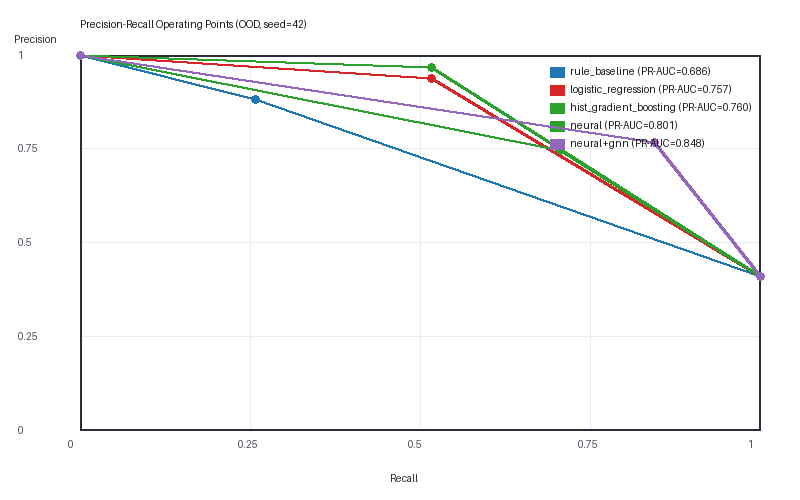
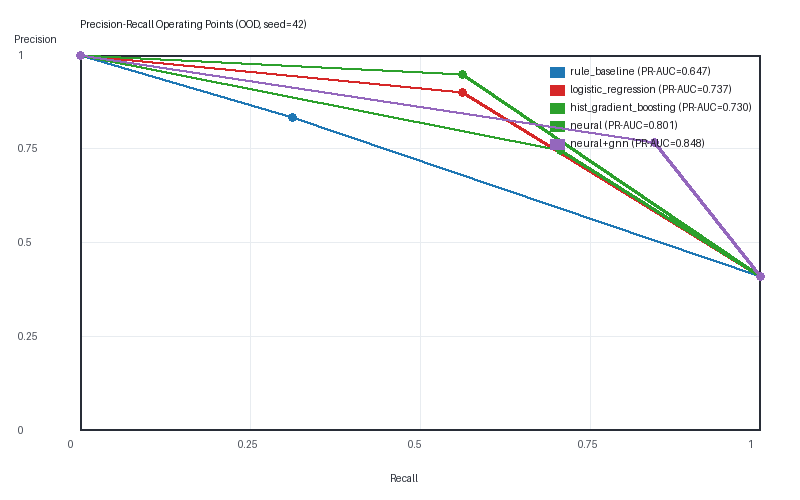
Phase G cleanup: dedupe OOD split, audit personal_site copy bias, add shortcut & raw_no_sim baselines, isotonic ECE

diff --git a/osint_agent/ml/validation.py b/osint_agent/ml/validation.py
@@ -169,6 +169,39 @@ def evaluate_shortcut_baselines(
 
     clf_bio = LogisticRegression(random_state=seed, max_iter=500).fit(_bio_feat(train_rows), y_train)
 
+    # 4. Exact display-name match only
+    def _exact_dn_feat(rows: list[dict[str, Any]]) -> np.ndarray:
+        out = []
+        for r in rows:
+            da = str(r.get("display_name_a") or "").strip().lower()
+            db = str(r.get("display_name_b") or "").strip().lower()
+            out.append([1.0 if (da and db and da == db) else 0.0])
+        return np.asarray(out, dtype=np.float64)
+
+    clf_exact_dn = LogisticRegression(random_state=seed, max_iter=500).fit(_exact_dn_feat(train_rows), y_train)
+
+    # 5. Exact username match only
+    def _exact_un_feat(rows: list[dict[str, Any]]) -> np.ndarray:
+        out = []
+        for r in rows:
+            ua = str(r.get("username_a") or "").strip().lower()
+            ub = str(r.get("username_b") or "").strip().lower()
+            out.append([1.0 if (ua and ub and ua == ub) else 0.0])
+        return np.asarray(out, dtype=np.float64)
+
+    clf_exact_un = LogisticRegression(random_state=seed, max_iter=500).fit(_exact_un_feat(train_rows), y_train)
+
+    # 6. Has-bio only
+    def _has_bio_feat(rows: list[dict[str, Any]]) -> np.ndarray:
+        out = []
+        for r in rows:
+            ha = 1.0 if float(r.get("bio_len_a", 0)) > 0 else 0.0
+            hb = 1.0 if float(r.get("bio_len_b", 0)) > 0 else 0.0
+            out.append([ha, hb, 1.0 if (ha and hb) else 0.0])
+        return np.asarray(out, dtype=np.float64)
+
+    clf_has_bio = LogisticRegression(random_state=seed, max_iter=500).fit(_has_bio_feat(train_rows), y_train)
+
     results: dict[str, Any] = {"splits": {}, "dataset_bias_flags": []}
     for sp_name, rows in eval_splits.items():
         if not rows:
@@ -181,6 +214,9 @@ def evaluate_shortcut_baselines(
             "platform_pair_only": clf_plat.predict_proba(X_plat_sp)[:, 1],
             "username_sim_only": clf_uname.predict_proba(_uname_feat(rows))[:, 1],
             "bio_len_has_bio_only": clf_bio.predict_proba(_bio_feat(rows))[:, 1],
+            "exact_display_name_only": clf_exact_dn.predict_proba(_exact_dn_feat(rows))[:, 1],
+            "exact_username_only": clf_exact_un.predict_proba(_exact_un_feat(rows))[:, 1],
+            "has_bio_only": clf_has_bio.predict_proba(_has_bio_feat(rows))[:, 1],
         }
         sp_out: dict[str, Any] = {"pos_rate": round(pos_rate, 4), "models": {}}
         for mname, probs in preds.items():
@@ -248,6 +284,30 @@ def select_live_llm_provider() -> str | None:
 
 
 def _build_judge_prompt(pair: dict[str, Any], variant: str) -> tuple[str, str]:
+    if variant == "raw_no_sim":
+        system = (
+            "Decide if two public social profiles belong to the same person using ONLY raw profile fields "
+            "(no precomputed similarity scores). Return ONLY strict JSON: "
+            '{"match_probability": <float 0..1>, "rationale": "<short>"}.'
+        )
+        user = json.dumps(
+            {
+                "platform_a": pair.get("platform_a", ""),
+                "platform_b": pair.get("platform_b", ""),
+                "username_a": pair.get("username_a", ""),
+                "username_b": pair.get("username_b", ""),
+                "display_name_a": pair.get("display_name_a", ""),
+                "display_name_b": pair.get("display_name_b", ""),
+                "location_a": pair.get("location_a", ""),
+                "location_b": pair.get("location_b", ""),
+                "bio_a": pair.get("bio_a", ""),
+                "bio_b": pair.get("bio_b", ""),
+                "bio_len_a": pair.get("bio_len_a", 0),
+                "bio_len_b": pair.get("bio_len_b", 0),
+            },
+            ensure_ascii=True,
+        )
+        return system, user
     if variant == "field_by_field":
         system = (
             "You are an OSINT identity resolution judge. Compare each field carefully: "
@@ -277,6 +337,21 @@ def _build_judge_prompt(pair: dict[str, Any], variant: str) -> tuple[str, str]:
         ensure_ascii=True,
     )
     return system, user
+
+
+def recalibrate_isotonic_on_val(
+    y_val: np.ndarray,
+    probs_val: np.ndarray,
+    probs_list: list[np.ndarray],
+) -> list[np.ndarray]:
+    """Fit IsotonicRegression on val probabilities and transform target probability arrays."""
+    from sklearn.isotonic import IsotonicRegression
+
+    if len(y_val) < 4 or len(np.unique(y_val)) < 2:
+        return [np.asarray(p, dtype=np.float64) for p in probs_list]
+    iso = IsotonicRegression(y_min=0.0, y_max=1.0, out_of_bounds="clip")
+    iso.fit(np.asarray(probs_val, dtype=np.float64), np.asarray(y_val, dtype=int))
+    return [np.asarray(iso.transform(np.asarray(p, dtype=np.float64)), dtype=np.float64) for p in probs_list]
 
 
 def run_llm_judge_two_variants(

diff --git a/tests/test_phase_g_validation.py b/tests/test_phase_g_validation.py
@@ -97,6 +97,9 @@ def test_shortcut_baselines_and_negative_type_breakdown():
         "platform_pair_only",
         "username_sim_only",
         "bio_len_has_bio_only",
+        "exact_display_name_only",
+        "exact_username_only",
+        "has_bio_only",
     }
 
     nb = evaluate_by_negative_type(rows, {"m1": np.array([0.9, 0.2, 0.95, 0.1])})
@@ -160,3 +163,20 @@ def test_g4f_client_eryzalabs_fallback(monkeypatch):
         out = cli.complete_json("sys", "usr")
         assert out["match_probability"] == 0.88
         assert out["_token_usage"] == 42
+
+
+
+def test_raw_no_sim_prompt_and_isotonic_recalibration():
+    import json
+    from osint_agent.ml.validation import _build_judge_prompt, recalibrate_isotonic_on_val
+
+    rows = _sample_rows()
+    sys_p, usr_p = _build_judge_prompt(rows[0], "raw_no_sim")
+    payload = json.loads(usr_p)
+    assert "bio_emb_sim" not in payload and "avatar_sim" not in payload
+    assert "bio_a" in payload and "bio_len_a" in payload
+
+    y_val = np.array([1, 0, 1, 0])
+    p_val = np.array([0.3, 0.1, 0.4, 0.05])
+    [p_cal] = recalibrate_isotonic_on_val(y_val, p_val, [np.array([0.35, 0.08])])
+    assert p_cal[0] >= p_cal[1]

diff --git a/scripts/make_report_assets.py b/scripts/make_report_assets.py
@@ -508,10 +508,10 @@ def generate_report_assets(
                     f"- `{vname}` (val threshold=`{t_val}`): "
                     f"test PR-AUC={_fmt_ci((te.get('ci95') or {}).get('pr_auc') or te.get('pr_auc'))}, "
                     f"F1={_fmt_ci((te.get('ci95') or {}).get('f1') or te.get('f1'))}, "
-                    f"ECE={_fmt_ci((te.get('ci95') or {}).get('ece') or te.get('ece'))} | "
+                    f"ECE={_fmt_ci((te.get('ci95') or {}).get('ece') or te.get('ece'))} (isotonic: {te.get('ece_after_isotonic')}) | "
                     f"OOD PR-AUC={_fmt_ci((oo.get('ci95') or {}).get('pr_auc') or oo.get('pr_auc'))}, "
                     f"F1={_fmt_ci((oo.get('ci95') or {}).get('f1') or oo.get('f1'))}, "
-                    f"ECE={_fmt_ci((oo.get('ci95') or {}).get('ece') or oo.get('ece'))} | "
+                    f"ECE={_fmt_ci((oo.get('ci95') or {}).get('ece') or oo.get('ece'))} (isotonic: {oo.get('ece_after_isotonic')}) | "
                     f"tokens={vres.get('total_tokens')}, cost=${vres.get('cost_estimate_usd')}, latency={vres.get('latency_ms_per_pair')} ms/pair"
                 )
             else:

diff --git a/report/RESULTS.md b/report/RESULTS.md
@@ -19,12 +19,12 @@ Every number below is generated directly from JSON artifacts in `data/osint_link
 
 | Model | Split | Precision (95% CI) | Recall (95% CI) | F1 (95% CI) | PR-AUC (95% CI) | ECE (95% CI) | Latency (ms/pair) |
 |---|---|---:|---:|---:|---:|---:|---:|
-| `rule_baseline` | `test` | 0.8431 [0.7379, 0.9238] | 0.5181 [0.4144, 0.6095] | 0.6418 [0.5433, 0.7211] | 0.7414 [0.6530, 0.8151] | 0.1369 [0.0926, 0.1879] | 0.0029 |
-| `logistic_regression` | `test` | 0.8955 [0.8068, 0.9600] | 0.7229 [0.6311, 0.8158] | 0.8000 [0.7211, 0.8722] | 0.8685 [0.8080, 0.9235] | 0.1323 [0.1001, 0.1800] | 0.0020 |
-| `hist_gradient_boosting` | `test` | 0.9531 [0.8991, 1.0000] | 0.7349 [0.6410, 0.8256] | 0.8299 [0.7602, 0.8919] | 0.9174 [0.8705, 0.9558] | 0.0549 [0.0369, 0.1051] | 0.0078 |
-| `rule_baseline` | `ood_platform_test` | 0.8824 [0.7000, 1.0000] | 0.2586 [0.1557, 0.3661] | 0.4000 [0.2623, 0.5174] | 0.6856 [0.5730, 0.7743] | 0.1745 [0.1190, 0.2510] | 0.0018 |
-| `logistic_regression` | `ood_platform_test` | 0.9375 [0.8308, 1.0000] | 0.5172 [0.3783, 0.6374] | 0.6667 [0.5370, 0.7624] | 0.7572 [0.6524, 0.8362] | 0.1752 [0.1240, 0.2429] | 0.0012 |
-| `hist_gradient_boosting` | `ood_platform_test` | 0.9677 [0.9032, 1.0000] | 0.5172 [0.3783, 0.6374] | 0.6742 [0.5455, 0.7702] | 0.7605 [0.6517, 0.8392] | 0.1514 [0.0949, 0.2251] | 0.0112 |
+| `rule_baseline` | `test` | 0.8431 [0.7379, 0.9238] | 0.5181 [0.4144, 0.6095] | 0.6418 [0.5433, 0.7211] | 0.7414 [0.6530, 0.8151] | 0.1369 [0.0926, 0.1879] | 0.0021 |
+| `logistic_regression` | `test` | 0.8955 [0.8068, 0.9600] | 0.7229 [0.6311, 0.8158] | 0.8000 [0.7211, 0.8722] | 0.8685 [0.8080, 0.9235] | 0.1323 [0.1001, 0.1800] | 0.0007 |
+| `hist_gradient_boosting` | `test` | 0.9531 [0.8991, 1.0000] | 0.7349 [0.6410, 0.8256] | 0.8299 [0.7602, 0.8919] | 0.9174 [0.8705, 0.9558] | 0.0549 [0.0369, 0.1051] | 0.0048 |
+| `rule_baseline` | `ood_platform_test` | 0.8333 [0.5833, 1.0000] | 0.3125 [0.1429, 0.4678] | 0.4545 [0.2284, 0.6087] | 0.6475 [0.4986, 0.7752] | 0.1069 [0.0680, 0.1893] | 0.0016 |
+| `logistic_regression` | `ood_platform_test` | 0.9000 [0.7647, 1.0000] | 0.5625 [0.3968, 0.7188] | 0.6923 [0.5411, 0.8142] | 0.7372 [0.5959, 0.8606] | 0.1191 [0.0864, 0.1917] | 0.0013 |
+| `hist_gradient_boosting` | `ood_platform_test` | 0.9474 [0.8440, 1.0000] | 0.5625 [0.3968, 0.7188] | 0.7059 [0.5555, 0.8264] | 0.7303 [0.6066, 0.8636] | 0.0792 [0.0335, 0.1452] | 0.0091 |
 
 - Note: `zero_shot_llm_judge` is omitted because OpenRouter returned HTTP 429 rate-limited (`total_tokens=0`); 0.5 fallback values are not reported.
 
@@ -52,21 +52,21 @@ Every number below is generated directly from JSON artifacts in `data/osint_link
 |---|---|---:|---:|---:|---:|---:|
 | Old GNN (pre-audit) | `test` | 0.9250 | 0.8391 | 0.8022 | 0.8795 | 0.0742 |
 | Old GNN (pre-audit) | `ood_platform_test` | 0.8481 | 0.8033 | 0.7656 | 0.8448 | 0.1462 |
-| New GNN (pair-links masked, split-isolated) | `test` | 0.9348 | 0.8362 | 0.7872 | 0.8916 | 0.0797 |
-| New GNN (pair-links masked, split-isolated) | `ood_platform_test` | 0.8585 | 0.7656 | 0.7000 | 0.8448 | 0.1615 |
+| New GNN (pair-links masked, split-isolated) | `test` | 0.9349 | 0.8315 | 0.7789 | 0.8916 | 0.0842 |
+| New GNN (pair-links masked, split-isolated) | `ood_platform_test` | 0.8384 | 0.6747 | 0.5490 | 0.8750 | 0.1966 |
 | New GNN (candidate-only edges, no anchor broadcast) | `test` | 0.8532 | 0.7123 | 0.8254 | 0.6265 | 0.0665 |
-| New GNN (candidate-only edges, no anchor broadcast) | `ood_platform_test` | 0.6967 | 0.5625 | 0.7105 | 0.4655 | 0.1044 |
+| New GNN (candidate-only edges, no anchor broadcast) | `ood_platform_test` | 0.6809 | 0.5902 | 0.6207 | 0.5625 | 0.0945 |
 
 ### 6.2 Person-Clustered Paired Bootstrap (1,000 iterations, seed `42`)
 
 | Split | Comparison | ΔPR-AUC (95% CI) | PR-AUC Sig. | ΔF1 (95% CI) | F1 Sig. |
 |---|---|---:|---|---:|---|
-| `test` | GNN vs HistGBM | +0.0196 [-0.0216, +0.0644] | not significant | +0.0100 [-0.0691, +0.0886] | not significant |
+| `test` | GNN vs HistGBM | +0.0198 [-0.0217, +0.0646] | not significant | +0.0054 [-0.0747, +0.0881] | not significant |
 | `test` | Neural vs HistGBM | -0.0948 [-0.1541, -0.0429] | significant | -0.1373 [-0.2089, -0.0699] | significant |
-| `test` | GNN vs Neural | +0.1145 [+0.0744, +0.1585] | significant | +0.1473 [+0.0849, +0.2171] | significant |
-| `ood_platform_test` | GNN vs HistGBM | +0.0977 [+0.0059, +0.2091] | significant | +0.0939 [-0.0552, +0.2571] | not significant |
-| `ood_platform_test` | Neural vs HistGBM | +0.0421 [-0.0363, +0.1278] | not significant | +0.0557 [-0.0890, +0.2144] | not significant |
-| `ood_platform_test` | GNN vs Neural | +0.0556 [+0.0089, +0.1077] | significant | +0.0382 [-0.0381, +0.1368] | not significant |
+| `test` | GNN vs Neural | +0.1146 [+0.0740, +0.1594] | significant | +0.1427 [+0.0814, +0.2107] | significant |
+| `ood_platform_test` | GNN vs HistGBM | +0.1097 [+0.0007, +0.2158] | significant | -0.0255 [-0.1427, +0.1025] | not significant |
+| `ood_platform_test` | Neural vs HistGBM | -0.0098 [-0.1223, +0.1015] | not significant | -0.0345 [-0.1741, +0.1213] | not significant |
+| `ood_platform_test` | GNN vs Neural | +0.1194 [+0.0658, +0.1747] | significant | +0.0090 [-0.0619, +0.0830] | not significant |
 
 ### 6.3 Shortcut Baselines (Dataset Bias Probe)
 
@@ -75,9 +75,15 @@ Every number below is generated directly from JSON artifacts in `data/osint_link
 | `platform_pair_only` | `test` | 0.3673 | 0.6156 | 0.7315 | 0.5940 | 0.9518 |
 | `username_sim_only` | `test` | 0.3673 | 0.7621 | 0.7519 | 1.0000 | 0.6024 |
 | `bio_len_has_bio_only` | `test` | 0.3673 | 0.4420 | 0.0465 | 0.6667 | 0.0241 |
-| `platform_pair_only` | `ood_platform_test` | 0.4143 | 0.5275 | 0.5827 | 0.5362 | 0.6379 |
-| `username_sim_only` | `ood_platform_test` | 0.4143 | 0.6842 | 0.6047 | 0.9286 | 0.4483 |
-| `bio_len_has_bio_only` | `ood_platform_test` | 0.4143 | 0.4849 | 0.0000 | 0.0000 | 0.0000 |
+| `exact_display_name_only` | `test` | 0.3673 | 0.5121 | 0.3725 | 1.0000 | 0.2289 |
+| `exact_username_only` | `test` | 0.3673 | 0.5426 | 0.4340 | 1.0000 | 0.2771 |
+| `has_bio_only` | `test` | 0.3673 | 0.3677 | 0.0000 | 0.0000 | 0.0000 |
+| `platform_pair_only` | `ood_platform_test` | 0.2857 | 0.3661 | 0.4444 | 0.3673 | 0.5625 |
+| `username_sim_only` | `ood_platform_test` | 0.2857 | 0.6137 | 0.5833 | 0.8750 | 0.4375 |
+| `bio_len_has_bio_only` | `ood_platform_test` | 0.2857 | 0.3336 | 0.0000 | 0.0000 | 0.0000 |
+| `exact_display_name_only` | `ood_platform_test` | 0.2857 | 0.8438 | 0.8772 | 1.0000 | 0.7812 |
+| `exact_username_only` | `ood_platform_test` | 0.2857 | 0.5312 | 0.5116 | 1.0000 | 0.3438 |
+| `has_bio_only` | `ood_platform_test` | 0.2857 | 0.2530 | 0.0000 | 0.0000 | 0.0000 |
 - **Dataset Bias Flag**: platform_pair_only achieves PR-AUC=0.6156 vs random baseline=0.3673 on test
 
 ### 6.4 Per-Negative-Type Breakdown (`test` & `ood_platform_test`)
@@ -88,12 +94,12 @@ Every number below is generated directly from JSON artifacts in `data/osint_link
 | `test` | `diff_person_fallback` | no | `logistic_regression` | 0.9573 | 0.8333 | 0.9836 | 0.7229 |
 | `test` | `diff_person_fallback` | no | `hist_gradient_boosting` | 0.9649 | 0.8356 | 0.9683 | 0.7349 |
 | `test` | `diff_person_fallback` | no | `phase_c_neural` | 0.9366 | 0.7808 | 0.9048 | 0.6867 |
-| `test` | `diff_person_fallback` | no | `phase_c_plus_gnn` | 0.9854 | 0.9136 | 0.9367 | 0.8916 |
+| `test` | `diff_person_fallback` | no | `phase_c_plus_gnn` | 0.9853 | 0.9136 | 0.9367 | 0.8916 |
 | `test` | `similar_username_diff_person` | **YES (hard)** | `rule_baseline` | 0.8401 | 0.6466 | 0.8600 | 0.5181 |
 | `test` | `similar_username_diff_person` | **YES (hard)** | `logistic_regression` | 0.9163 | 0.8219 | 0.9524 | 0.7229 |
 | `test` | `similar_username_diff_person` | **YES (hard)** | `hist_gradient_boosting` | 0.9675 | 0.8472 | 1.0000 | 0.7349 |
 | `test` | `similar_username_diff_person` | **YES (hard)** | `phase_c_neural` | 0.9017 | 0.7600 | 0.8507 | 0.6867 |
-| `test` | `similar_username_diff_person` | **YES (hard)** | `phase_c_plus_gnn` | 0.9671 | 0.8970 | 0.9024 | 0.8916 |
+| `test` | `similar_username_diff_person` | **YES (hard)** | `phase_c_plus_gnn` | 0.9679 | 0.8916 | 0.8916 | 0.8916 |
 | `test` | `same_name_diff_org_city` | **YES (hard)** | `rule_baseline` | 0.8735 | 0.6615 | 0.9149 | 0.5181 |
 | `test` | `same_name_diff_org_city` | **YES (hard)** | `logistic_regression` | 0.9380 | 0.8219 | 0.9524 | 0.7229 |
 | `test` | `same_name_diff_org_city` | **YES (hard)** | `hist_gradient_boosting` | 0.9575 | 0.8414 | 0.9839 | 0.7349 |
@@ -103,40 +109,43 @@ Every number below is generated directly from JSON artifacts in `data/osint_link
 | `test` | `same_display_name_diff_links` | **YES (hard)** | `logistic_regression` | 0.9819 | 0.8392 | 1.0000 | 0.7229 |
 | `test` | `same_display_name_diff_links` | **YES (hard)** | `hist_gradient_boosting` | 0.9884 | 0.8472 | 1.0000 | 0.7349 |
 | `test` | `same_display_name_diff_links` | **YES (hard)** | `phase_c_neural` | 0.9656 | 0.7862 | 0.9194 | 0.6867 |
-| `test` | `same_display_name_diff_links` | **YES (hard)** | `phase_c_plus_gnn` | 0.9858 | 0.9250 | 0.9610 | 0.8916 |
-| `ood_platform_test` | `diff_person_fallback` | no | `rule_baseline` | 0.8517 | 0.4935 | 1.0000 | 0.3276 |
-| `ood_platform_test` | `diff_person_fallback` | no | `logistic_regression` | 0.8915 | 0.6818 | 1.0000 | 0.5172 |
-| `ood_platform_test` | `diff_person_fallback` | no | `hist_gradient_boosting` | 0.8499 | 0.6818 | 1.0000 | 0.5172 |
-| `ood_platform_test` | `diff_person_fallback` | no | `phase_c_neural` | 0.9040 | 0.7961 | 0.9111 | 0.7069 |
-| `ood_platform_test` | `diff_person_fallback` | no | `phase_c_plus_gnn` | 0.9349 | 0.8448 | 0.8448 | 0.8448 |
-| `ood_platform_test` | `similar_username_diff_person` | **YES (hard)** | `rule_baseline` | 0.8231 | 0.4872 | 0.9500 | 0.3276 |
-| `ood_platform_test` | `similar_username_diff_person` | **YES (hard)** | `logistic_regression` | 0.8591 | 0.6742 | 0.9677 | 0.5172 |
-| `ood_platform_test` | `similar_username_diff_person` | **YES (hard)** | `hist_gradient_boosting` | 0.8946 | 0.6818 | 1.0000 | 0.5172 |
-| `ood_platform_test` | `similar_username_diff_person` | **YES (hard)** | `phase_c_neural` | 0.8968 | 0.7810 | 0.8723 | 0.7069 |
-| `ood_platform_test` | `similar_username_diff_person` | **YES (hard)** | `phase_c_plus_gnn` | 0.9312 | 0.8522 | 0.8596 | 0.8448 |
-| `ood_platform_test` | `same_name_diff_org_city` | **YES (hard)** | `rule_baseline` | 0.8426 | 0.4872 | 0.9500 | 0.3276 |
-| `ood_platform_test` | `same_name_diff_org_city` | **YES (hard)** | `logistic_regression` | 0.8843 | 0.6742 | 0.9677 | 0.5172 |
-| `ood_platform_test` | `same_name_diff_org_city` | **YES (hard)** | `hist_gradient_boosting` | 0.8827 | 0.6742 | 0.9677 | 0.5172 |
-| `ood_platform_test` | `same_name_diff_org_city` | **YES (hard)** | `phase_c_neural` | 0.9300 | 0.7961 | 0.9111 | 0.7069 |
-| `ood_platform_test` | `same_name_diff_org_city` | **YES (hard)** | `phase_c_plus_gnn` | 0.9579 | 0.8829 | 0.9245 | 0.8448 |
+| `test` | `same_display_name_diff_links` | **YES (hard)** | `phase_c_plus_gnn` | 0.9855 | 0.9250 | 0.9610 | 0.8916 |
+| `ood_platform_test` | `diff_person_fallback` | no | `rule_baseline` | 0.8190 | 0.5455 | 1.0000 | 0.3750 |
+| `ood_platform_test` | `diff_person_fallback` | no | `logistic_regression` | 0.8679 | 0.7200 | 1.0000 | 0.5625 |
+| `ood_platform_test` | `diff_person_fallback` | no | `hist_gradient_boosting` | 0.8146 | 0.7200 | 1.0000 | 0.5625 |
+| `ood_platform_test` | `diff_person_fallback` | no | `phase_c_neural` | 0.8520 | 0.7797 | 0.8519 | 0.7188 |
+| `ood_platform_test` | `diff_person_fallback` | no | `phase_c_plus_gnn` | 0.9228 | 0.8000 | 0.7368 | 0.8750 |
+| `ood_platform_test` | `similar_username_diff_person` | **YES (hard)** | `rule_baseline` | 0.7785 | 0.5333 | 0.9231 | 0.3750 |
+| `ood_platform_test` | `similar_username_diff_person` | **YES (hard)** | `logistic_regression` | 0.8324 | 0.7059 | 0.9474 | 0.5625 |
+| `ood_platform_test` | `similar_username_diff_person` | **YES (hard)** | `hist_gradient_boosting` | 0.8665 | 0.7200 | 1.0000 | 0.5625 |
+| `ood_platform_test` | `similar_username_diff_person` | **YES (hard)** | `phase_c_neural` | 0.8378 | 0.7541 | 0.7931 | 0.7188 |
+| `ood_platform_test` | `similar_username_diff_person` | **YES (hard)** | `phase_c_plus_gnn` | 0.9134 | 0.8116 | 0.7568 | 0.8750 |
+| `ood_platform_test` | `same_name_diff_org_city` | **YES (hard)** | `rule_baseline` | 0.8008 | 0.5333 | 0.9231 | 0.3750 |
+| `ood_platform_test` | `same_name_diff_org_city` | **YES (hard)** | `logistic_regression` | 0.8587 | 0.7059 | 0.9474 | 0.5625 |
+| `ood_platform_test` | `same_name_diff_org_city` | **YES (hard)** | `hist_gradient_boosting` | 0.8467 | 0.7059 | 0.9474 | 0.5625 |
+| `ood_platform_test` | `same_name_diff_org_city` | **YES (hard)** | `phase_c_neural` | 0.8800 | 0.7797 | 0.8519 | 0.7188 |
+| `ood_platform_test` | `same_name_diff_org_city` | **YES (hard)** | `phase_c_plus_gnn` | 0.9480 | 0.8750 | 0.8750 | 0.8750 |
 
 ### 6.5 Val-Tuned Chain-Confidence Baseline
 - Val-tuned threshold: `0.01`
 - `test`: PR-AUC=0.4569, F1=0.4000, mean_pos=0.0499, mean_neg=0.0232, pct_below_0.1=0.9204
-- `ood_platform_test`: PR-AUC=0.4939, F1=0.4158, mean_pos=0.0696, mean_neg=0.0547, pct_below_0.1=0.8714
+- `ood_platform_test`: PR-AUC=0.3379, F1=0.3125, mean_pos=0.0749, mean_neg=0.0561, pct_below_0.1=0.875
 - Explanation: Multiplicative confidence decay (`prod(score * 0.85)`) compresses ~87-92% of multi-hop scores below `0.1`, collapsing threshold separability.
 
 ### 6.6 Zero-Shot LLM Judge (2 Prompt Variants)
-- Status: `ok` (provider: `g4f/GithubCopilot/gpt-4.1`)
-- `minimal` (val threshold=`0.18`): test PR-AUC=0.9249 [0.8822, 0.9644], F1=0.8344 [0.7651, 0.9000], ECE=0.1135 [0.0885, 0.1470] | OOD PR-AUC=0.9994 [0.9957, 1.0000], F1=0.9744 [0.9320, 1.0000], ECE=0.1258 [0.0985, 0.1645] | tokens=65191, cost=$0.0, latency=9738.6852 ms/pair
-- `field_by_field` (val threshold=`0.17`): test PR-AUC=0.9380 [0.8973, 0.9718], F1=0.8642 [0.7974, 0.9241], ECE=0.1292 [0.1073, 0.1646] | OOD PR-AUC=0.9997 [0.9983, 1.0000], F1=0.9915 [0.9703, 1.0000], ECE=0.1349 [0.0981, 0.1819] | tokens=77269, cost=$0.0, latency=6486.8105 ms/pair
+- Status: `ok` (provider: `g4f/GithubCopilot/gpt-4.1 (+EryzaLabs)`)
+- `minimal` (val threshold=`0.18`): test PR-AUC=0.9249 [0.8822, 0.9644], F1=0.8344 [0.7651, 0.9000], ECE=0.1135 [0.0885, 0.1470] (isotonic: 0.0806) | OOD PR-AUC=0.9982 [0.9857, 1.0000], F1=0.9538 [0.8710, 1.0000], ECE=0.0982 [0.0817, 0.1236] (isotonic: 0.0341) | tokens=65191, cost=$0.0, latency=9738.6852 ms/pair
+- `field_by_field` (val threshold=`0.17`): test PR-AUC=0.9380 [0.8973, 0.9718], F1=0.8642 [0.7974, 0.9241], ECE=0.1292 [0.1073, 0.1646] (isotonic: 0.0644) | OOD PR-AUC=0.9991 [0.9939, 1.0000], F1=0.9846 [0.9508, 1.0000], ECE=0.1053 [0.0819, 0.1342] (isotonic: 0.0256) | tokens=77269, cost=$0.0, latency=6486.8105 ms/pair
+- `raw_no_sim` (val threshold=`0.24`): test PR-AUC=0.9385 [0.9064, 0.9695], F1=0.8701 [0.8025, 0.9277], ECE=0.0815 [0.0618, 0.1141] (isotonic: 0.0589) | OOD PR-AUC=0.9853 [0.9566, 1.0000], F1=0.9153 [0.8260, 0.9831], ECE=0.1070 [0.0725, 0.1463] (isotonic: 0.0639) | tokens=356306, cost=$0.0, latency=9887.3253 ms/pair
 
 | Split | Comparison (GNN - LLM) | ΔPR-AUC (95% CI) | PR-AUC Sig. | ΔF1 (95% CI) | F1 Sig. |
 |---|---|---:|---|---:|---|
-| `test` | `gnn_vs_llm_minimal` | +0.0117 [-0.0353, +0.0616] | not significant | +0.0048 [-0.0847, +0.0917] | not significant |
-| `test` | `gnn_vs_llm_field_by_field` | -0.0012 [-0.0428, +0.0437] | not significant | -0.0259 [-0.1039, +0.0517] | not significant |
-| `ood_platform_test` | `gnn_vs_llm_minimal` | -0.1353 [-0.1920, -0.0762] | significant | -0.2085 [-0.2778, -0.1281] | significant |
-| `ood_platform_test` | `gnn_vs_llm_field_by_field` | -0.1359 [-0.1920, -0.0780] | significant | -0.2255 [-0.2844, -0.1636] | significant |
+| `test` | `gnn_vs_llm_minimal` | +0.0119 [-0.0345, +0.0614] | not significant | +0.0002 [-0.0906, +0.0885] | not significant |
+| `test` | `gnn_vs_llm_field_by_field` | -0.0010 [-0.0419, +0.0435] | not significant | -0.0305 [-0.1087, +0.0494] | not significant |
+| `test` | `gnn_vs_llm_raw_no_sim` | -0.0015 [-0.0384, +0.0367] | not significant | -0.0357 [-0.1101, +0.0401] | not significant |
+| `ood_platform_test` | `gnn_vs_llm_minimal` | -0.1537 [-0.2294, -0.0805] | significant | -0.2782 [-0.3913, -0.1459] | significant |
+| `ood_platform_test` | `gnn_vs_llm_field_by_field` | -0.1555 [-0.2294, -0.0853] | significant | -0.3104 [-0.4021, -0.2144] | significant |
+| `ood_platform_test` | `gnn_vs_llm_raw_no_sim` | -0.1410 [-0.2078, -0.0734] | significant | -0.2377 [-0.3338, -0.1289] | significant |
 
 ## 7. Generated Figures & Tables
 - PR Operating Points: `report/figures/pr_curves.png`
